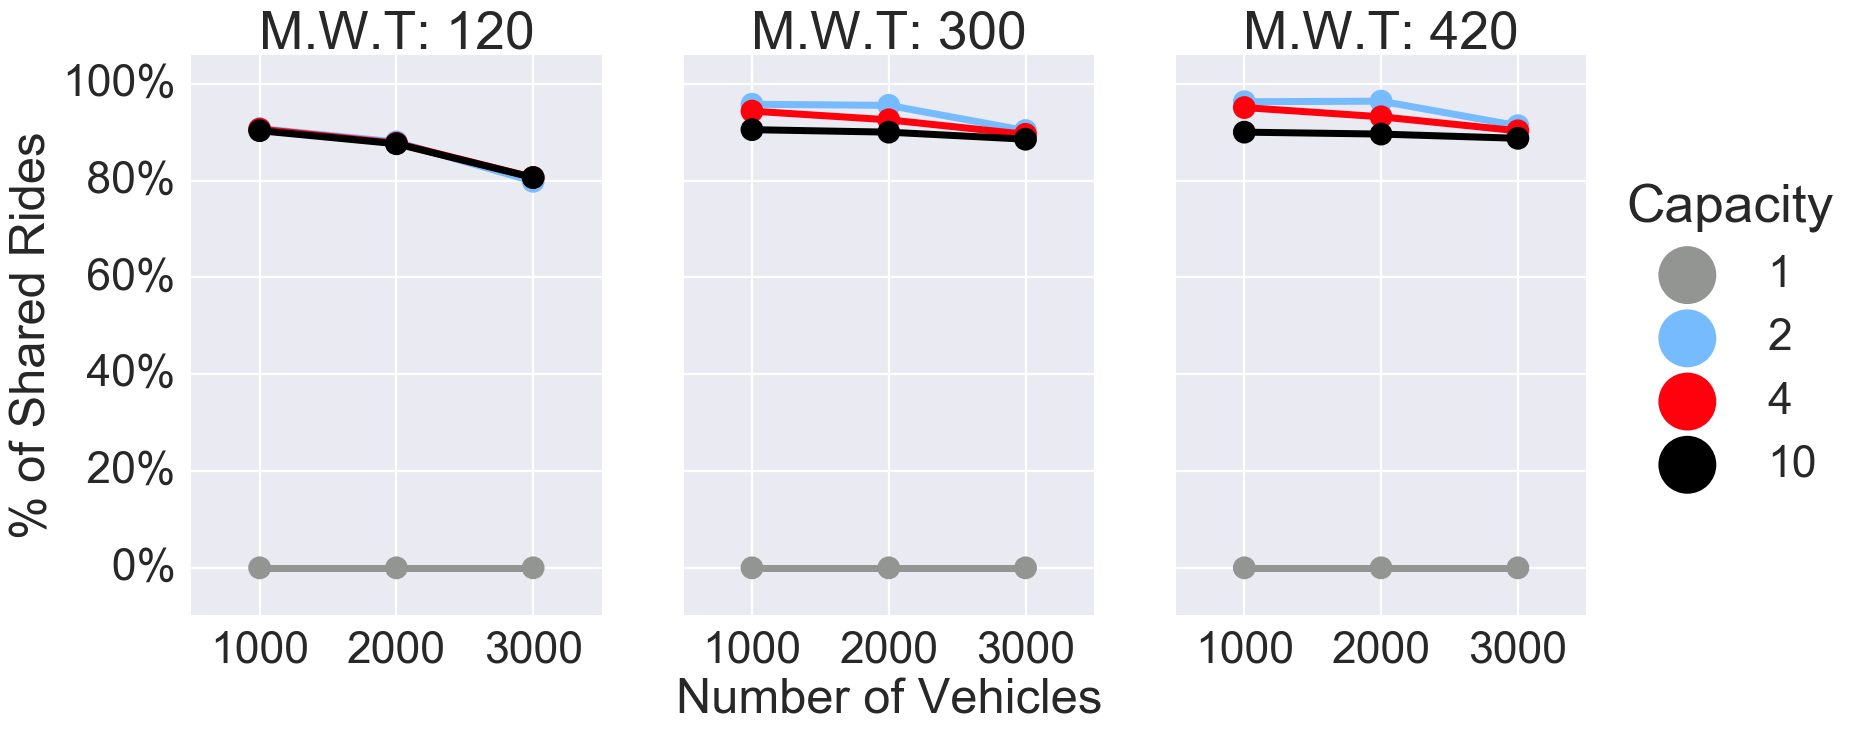
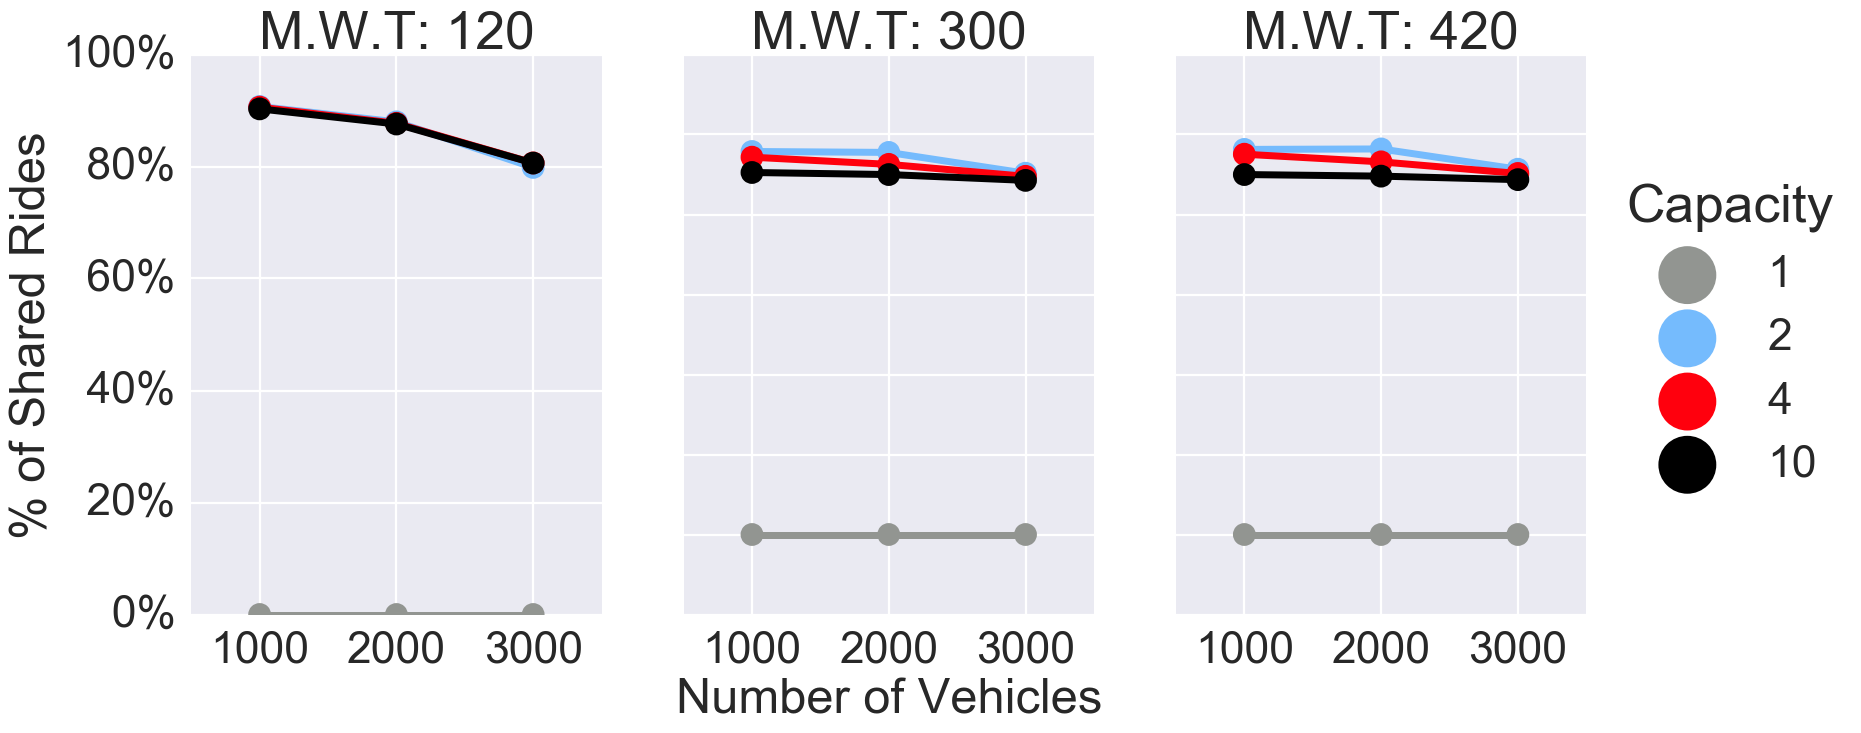
Is this the solution

diff --git a/scripts/plot_metrics.py b/scripts/plot_metrics.py
@@ -318,12 +318,12 @@ def make_avg_plots(big_d, plot_type):
             if i == 1:
                 plt.ylabel(prettify(field))
                 if "%" in prettify(field):
+                    ax.set_ylim([0, 1])
                     vals = ax.get_yticks()
                     print field, vals
                     yticklabels = ['{:3.0f}%'.format(x * 100) for x in vals]
                     print field, yticklabels
                     ax.set_yticklabels(yticklabels)
-                    ax.set_ylim([0, 1])
             else:
                 plt.ylabel("")
             if i == 2:
@@ -344,8 +344,9 @@ def make_avg_plots(big_d, plot_type):
                 max_val = max(d[field])
             if min_val is None or min_val > min(d[field]):
                 min_val = min(d[field])
-        for ax in axes:
-            ax.set_ylim(min_val - 0.1 * max_val, 1.1 * max_val)
+        if not "%" in prettify(field):
+            for ax in axes:
+                ax.set_ylim(min_val - 0.1 * max_val, 1.1 * max_val)
         filename = "figs/avg-with-{}-{}.png".format(plot_type, field)
         plt.savefig(filename, bbox_inches='tight')
         plt.close()
